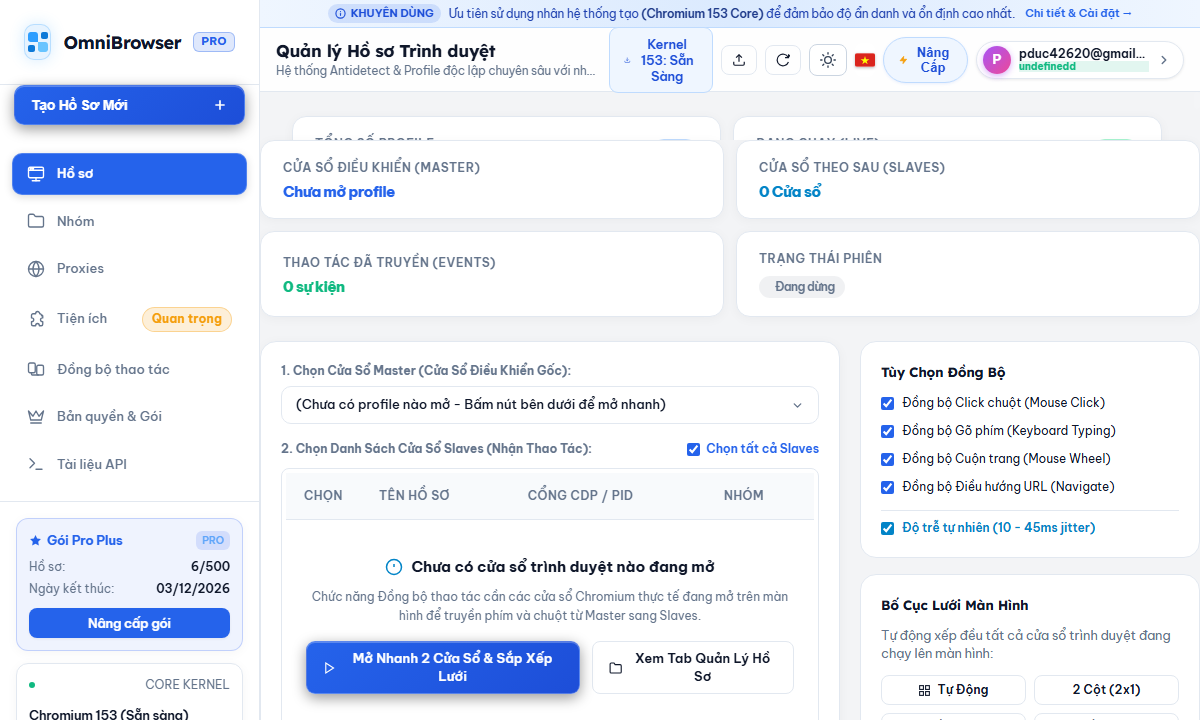
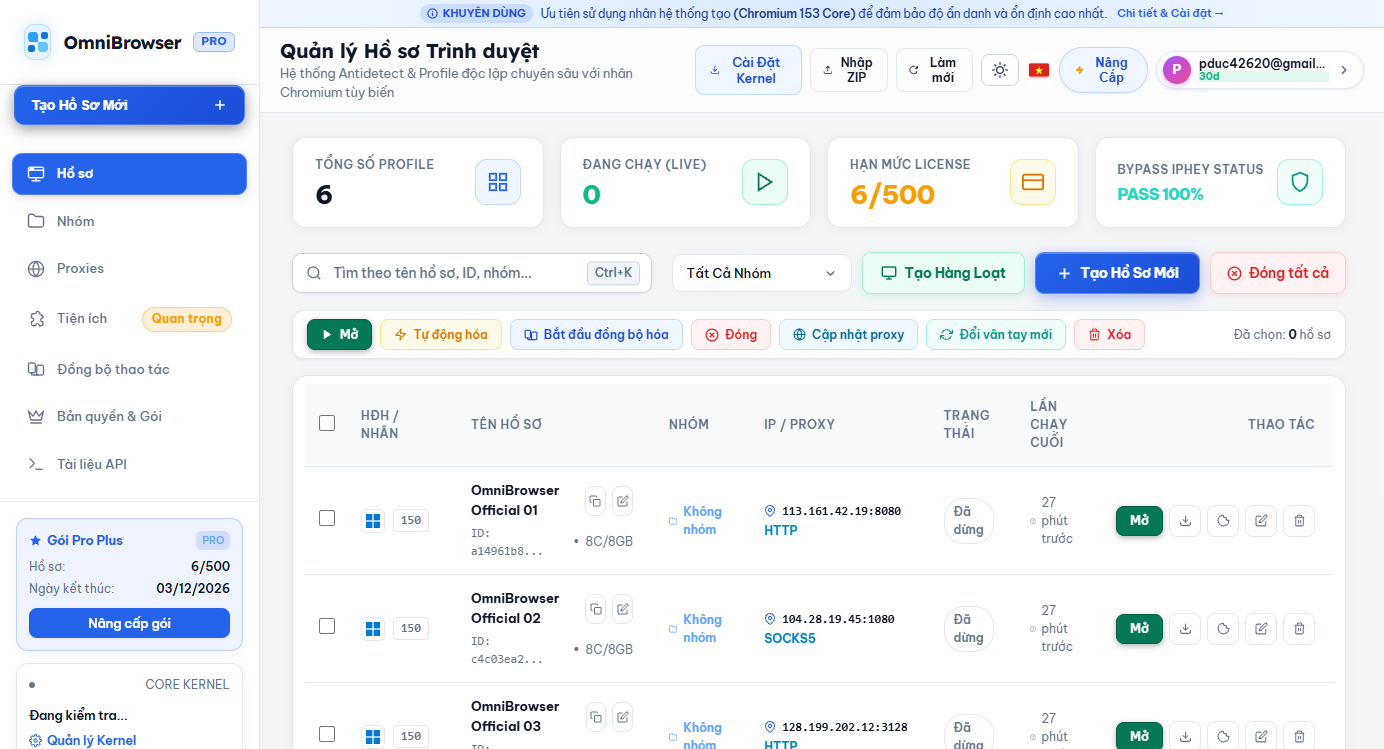
fix(html): fix premature closing div tags in view-extensions and view-sync preventing content leaks across tabs

diff --git a/public/app.js b/public/app.js
@@ -5159,6 +5159,7 @@ async function checkAuthState() {
       plan: 'Pro 30 Ngày',
       plan_code: 'PRO_MONTHLY',
       max_profiles: 500,
+      days_remaining: 30,
       expires_at: '2026-12-03T08:52:38.404Z'
     };
     renderPolyUserProfile(currentUser);
@@ -5301,16 +5302,21 @@ function renderPolyUserProfile(user) {
   const emailEl = document.getElementById('poly-email');
   if (emailEl) emailEl.textContent = user.maskedEmail || user.email;
 
+  let days = user.days_remaining;
+  if (days == null && user.expires_at) {
+    const diff = new Date(user.expires_at).getTime() - Date.now();
+    days = Math.max(0, Math.ceil(diff / (1000 * 60 * 60 * 24)));
+  }
   const daysEl = document.getElementById('poly-plan-days');
   if (daysEl) {
-    if (user.is_lifetime) {
+    if (user.is_lifetime || String(user.plan_code).includes('VIP')) {
       daysEl.textContent = 'VIP';
       daysEl.style.color = '#10b981';
       daysEl.style.background = 'rgba(16, 185, 129, 0.12)';
-    } else if (user.days_remaining !== null) {
-      daysEl.textContent = `${user.days_remaining}d`;
-      daysEl.style.color = user.days_remaining <= 3 ? '#ef4444' : '#10b981';
-      daysEl.style.background = user.days_remaining <= 3 ? 'rgba(239, 68, 68, 0.12)' : 'rgba(16, 185, 129, 0.12)';
+    } else if (typeof days === 'number' && !isNaN(days)) {
+      daysEl.textContent = `${days}d`;
+      daysEl.style.color = days <= 3 ? '#ef4444' : '#10b981';
+      daysEl.style.background = days <= 3 ? 'rgba(239, 68, 68, 0.12)' : 'rgba(16, 185, 129, 0.12)';
     } else {
       daysEl.textContent = 'Free';
       daysEl.style.color = 'var(--text-muted)';

diff --git a/public/index.html b/public/index.html
@@ -1079,7 +1079,6 @@
                 <span>Tải Lên Tiện Ích</span>
               </button>
             </div>
-          </div>
 
           <!-- Filter & Search bar for extensions -->
           <div class="filter-bar" style="margin-bottom: 20px;">
@@ -1128,7 +1127,6 @@
                 <span id="sync-btn-text">Bắt đầu Đồng Bộ</span>
               </button>
             </div>
-          </div>
 
           <!-- Metrics Row -->
           <div class="metrics-row" style="margin-bottom: 24px;">
